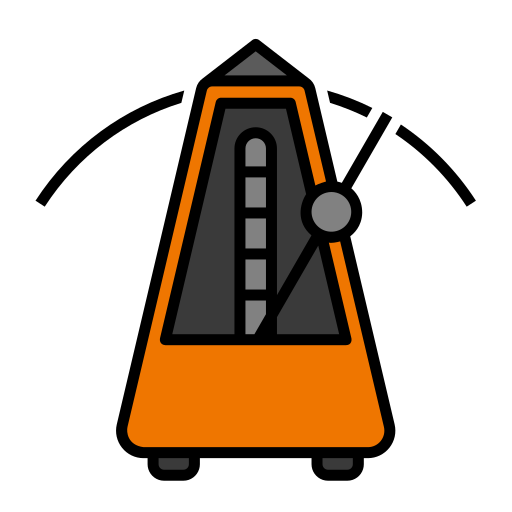
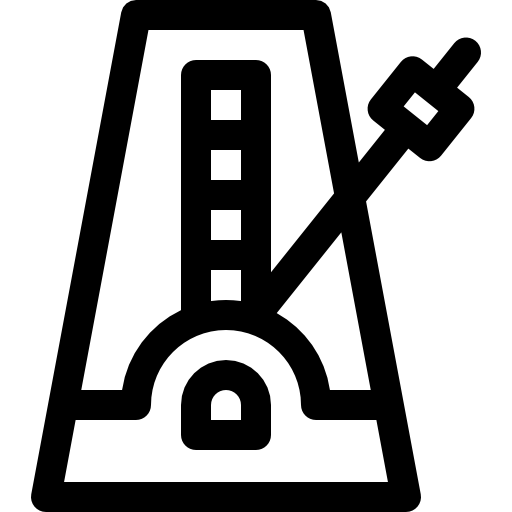
Updated

diff --git a/lib/screens/exercise_screen.dart b/lib/screens/exercise_screen.dart
@@ -6,6 +6,7 @@ import 'dart:typed_data';
 import 'dart:math' as math;
 import 'package:flutter_sound/flutter_sound.dart';
 import 'package:permission_handler/permission_handler.dart';
+import 'package:flutter_svg/flutter_svg.dart';
 import '../services/music_service.dart';
 import '../services/yin_algorithm.dart';
 import '../utils/note_utils.dart';
@@ -1347,16 +1348,25 @@ Component Health: ${performanceMetrics['componentHealth']}
   void _updateMetronome(double currentBeats, double metronomeBeatUnitSec) {
     if (!_metronomeEnabled) return;
    
-                final int targetBeat = currentBeats.floor();
-                const double clickDurationSec = 0.05; // 50ms
-                while (_lastWholeBeat < targetBeat) {
-                  _lastWholeBeat++;
-                  final int beatsPerMeasure = (_timeSigBeats ?? 4).clamp(1, 12);
-                  final bool isDownbeat = (_lastWholeBeat % beatsPerMeasure) == 0;
-                  final double beatStartSec = _lastWholeBeat * metronomeBeatUnitSec;
-                  if (beatStartSec + clickDurationSec <= _lastMeasurePosition) {
-                    _triggerMetronome(downbeat: isDownbeat);
-                  } else {
+    // Calculate target beat with a small look-ahead to compensate for audio latency
+    // This helps the metronome click sound to align better with the visual beat
+    final double lookAheadSec = 0.03; // 30ms look-ahead to compensate for audio latency
+    final double adjustedCurrentBeats = currentBeats + (lookAheadSec / metronomeBeatUnitSec);
+    final int targetBeat = adjustedCurrentBeats.floor();
+    
+    const double clickDurationSec = 0.05; // 50ms
+    
+    // Process any beats that need to be triggered
+    while (_lastWholeBeat < targetBeat) {
+      _lastWholeBeat++;
+      final int beatsPerMeasure = (_timeSigBeats ?? 4).clamp(1, 12);
+      final bool isDownbeat = (_lastWholeBeat % beatsPerMeasure) == 0;
+      final double beatStartSec = _lastWholeBeat * metronomeBeatUnitSec;
+      
+      // Only trigger if we're still within the valid playback range
+      if (beatStartSec + clickDurationSec <= _lastMeasurePosition) {
+        _triggerMetronome(downbeat: isDownbeat);
+      } else {
         break;
       }
     }
@@ -1642,48 +1652,31 @@ Component Health: ${performanceMetrics['componentHealth']}
     if (mounted) setState(() => _metronomeFlash = false);
   }
 
-  Future<void> _playMetronomeClick({bool downbeat = false}) async {
+  // Path to the metronome sound file
+  final String _metronomeSound = 'assets/sounds/metronome sound.mp3';
+  
+  // Play metronome click using the uploaded sound file
+  void _playMetronomeClick({bool downbeat = false}) {
     try {
-      if (!_metronomePlayer.isOpen()) {
-        try { await _metronomePlayer.openPlayer(); } catch (_) {}
-        if (!_metronomePlayer.isOpen()) {
-          // Fallback if we still cannot open
-          try { SystemSound.play(SystemSoundType.click); } catch (_) {}
-          return;
-        }
-      }
-      // Avoid cutting the click if it's still within its duration; otherwise, force stop to allow a new click
-      if (_metronomePlayer.isPlaying) {
-        final int nowUs = DateTime.now().microsecondsSinceEpoch;
-        final int elapsedMs = ((nowUs - _lastClickStartUs) / 1000).round();
-        if (elapsedMs < _clickDurationMs - 5) {
-          // Still in click window → skip retrigger to avoid cut
-          return;
-        }
-        // Click should have finished by now but player still reports playing → stop to start the next
-        try { await _metronomePlayer.stopPlayer(); } catch (_) {}
-      }
-      final Uint8List data = _generateClickPcm(
-        frequencyHz: downbeat ? 1400 : 1000,
-        durationMs: _clickDurationMs,
-        sampleRate: 44100,
-        amplitude: downbeat ? 0.6 : 0.4,
-      );
-      _lastClickStartUs = DateTime.now().microsecondsSinceEpoch;
-      try {
-        await _metronomePlayer.startPlayer(
-          fromDataBuffer: data,
-          codec: Codec.pcm16,
-          numChannels: 1,
-          sampleRate: 44100,
+      if (_metronomePlayer.isOpen()) {
+        // Play the metronome sound file
+        _metronomePlayer.startPlayer(
+          fromURI: _metronomeSound,
+          codec: Codec.mp3,
         );
-      } catch (_) {
-        // Fallback to system click if start failed
-        try { SystemSound.play(SystemSoundType.click); } catch (_) {}
+        
+        // Record timestamp for timing calculations
+        _lastClickStartUs = DateTime.now().microsecondsSinceEpoch;
+      } else {
+        // Fallback to system sound if player is not open
+        SystemSound.play(SystemSoundType.click);
+        _lastClickStartUs = DateTime.now().microsecondsSinceEpoch;
       }
     } catch (e) {
-      // As a fallback, try a system click
-      try { SystemSound.play(SystemSoundType.click); } catch (_) {}
+      print('Error playing metronome click: $e');
+      // Fallback to system sound on error
+      SystemSound.play(SystemSoundType.click);
+      _lastClickStartUs = DateTime.now().microsecondsSinceEpoch;
     }
   }
 
@@ -1694,34 +1687,25 @@ Component Health: ${performanceMetrics['componentHealth']}
     if (_currentTime >= _lastMeasurePosition || !_isPlaying) {
       return;
     }
+    
+    // Play the click sound immediately without waiting
     _playMetronomeClick(downbeat: downbeat);
+    
+    // Update visual feedback with minimal delay
     if (mounted) {
-      setState(() => _metronomeFlash = true);
-      Timer(const Duration(milliseconds: 120), () {
-        if (mounted) setState(() => _metronomeFlash = false);
+      // Use microtask to prioritize UI update
+      Future.microtask(() {
+        if (mounted) setState(() => _metronomeFlash = true);
+        
+        // Schedule flash off with shorter duration for better sync with audio
+        Timer(const Duration(milliseconds: 100), () {
+          if (mounted) setState(() => _metronomeFlash = false);
+        });
       });
     }
   }
 
-  Uint8List _generateClickPcm({
-    required double frequencyHz,
-    required int durationMs,
-    required int sampleRate,
-    required double amplitude,
-  }) {
-    final int totalSamples = (sampleRate * durationMs / 1000).round();
-    final Int16List samples = Int16List(totalSamples);
-    final double twoPiF = 2 * math.pi * frequencyHz;
-
-    for (int i = 0; i < totalSamples; i++) {
-      final double t = i / sampleRate;
-      // Simple short sine with exponential decay for a clicky feel
-      final double envelope = math.exp(-20 * t); // fast decay
-      final double s = math.sin(twoPiF * t) * amplitude * envelope;
-      samples[i] = (s * 32767).clamp(-32768.0, 32767.0).toInt();
-    }
-    return samples.buffer.asUint8List();
-  }
+  // PCM generation function removed as we're now using the uploaded sound file
 
   @override
   Widget build(BuildContext context) {
@@ -2099,9 +2083,10 @@ Component Health: ${performanceMetrics['componentHealth']}
                           width: 50,
                           height: 50,
                           child: IconButton(
-                            icon: Icon(
-                              Icons.music_note,
-                              size: 24,
+                            icon: Image.asset(
+                              'assets/metronome.png',
+                              width: 24,
+                              height: 24,
                               color: _metronomeEnabled ? Colors.blue : const Color(0xFF8B4511),
                             ),
                             onPressed: () {

diff --git a/lib/screens/home_screen.dart b/lib/screens/home_screen.dart
@@ -1,5 +1,6 @@
 import 'package:flutter/material.dart';
 import 'main_navigation_screen.dart';
+import 'package:flutter_svg/flutter_svg.dart';
 
 class HomeScreen extends StatelessWidget {
   const HomeScreen({super.key});
@@ -50,7 +51,14 @@ class HomeScreen extends StatelessWidget {
                           )
                         ],
                       ),
-                      child: const Icon(Icons.queue_music_rounded, color: Color(0xFFF5F5DD), size: 40),
+                      child: ClipOval(
+                        child: Image.asset(
+                          'assets/App Logo.png',
+                          fit: BoxFit.cover,
+                          width: 88,
+                          height: 88,
+                        ),
+                      ),
                     ),
                     const SizedBox(height: 28),
                     Text(

diff --git a/lib/screens/progress_screen.dart b/lib/screens/progress_screen.dart
@@ -227,7 +227,7 @@ class _ProgressScreenState extends State<ProgressScreen> {
       ),
       body: Container(
         decoration: const BoxDecoration(
-          color: Color(0xFFF5F5DD),
+          color: Color(0xFFF8F4E1),
         ),
         child: _isLoading
             ? const Center(child: CircularProgressIndicator())
